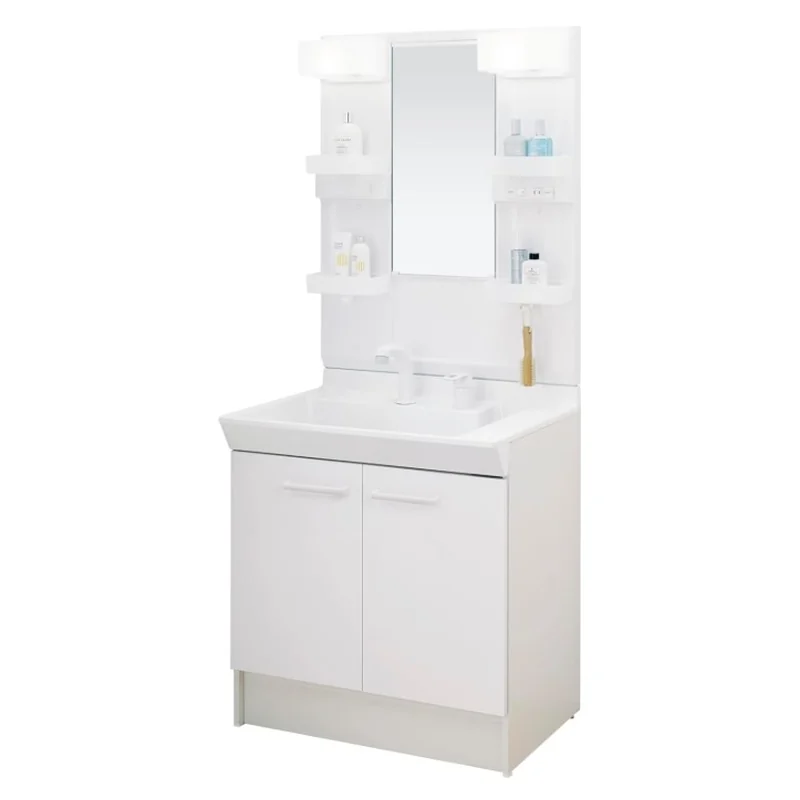
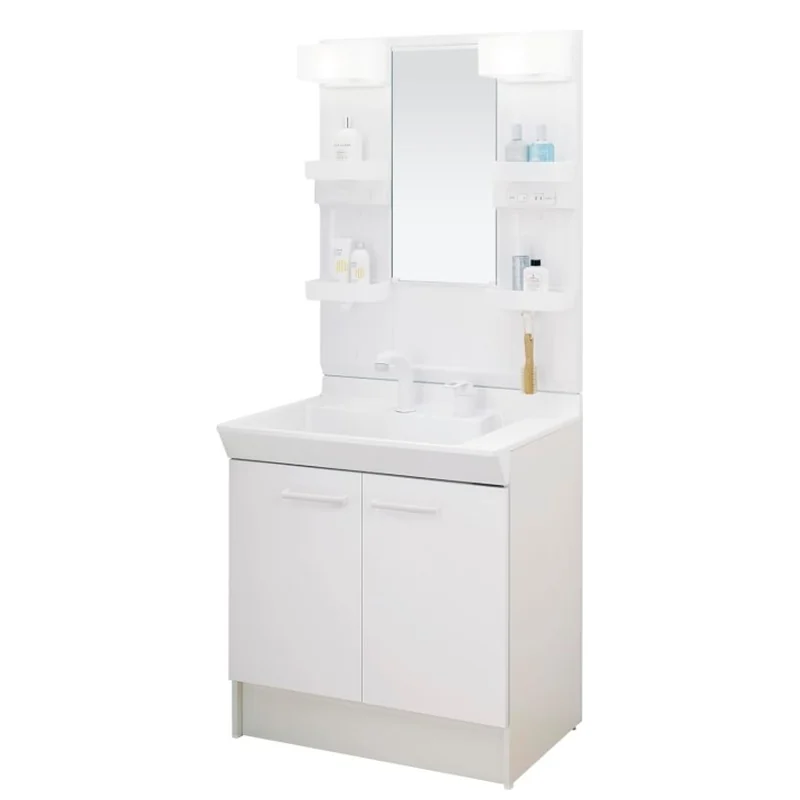
調整

diff --git a/index.html b/index.html
@@ -480,7 +480,7 @@
         <div class="p-price__body">
           <h3 class="p-price__name">水まわり4点パック</h3>
           <p class="p-price__desc">キッチン・お風呂・トイレ・洗面をまとめて。別々に頼むよりぐんとお得です。</p>
-          <p class="p-price__yen"><span class="lbl">工事費込み</span><span class="num">162.8</span><span class="unit">万円〜（税込）</span></p>
+          <p class="p-price__yen"><span class="lbl">工事費込み</span><span class="num">162<span class="dec">.8</span></span><span class="unit">万円〜（税込）</span></p>
           <p class="p-price__inc">本体＋標準工事＋既存撤去処分＋保証</p>
           <a class="p-price__link" href="./products/pack4/">プランを見る</a>
         </div>
@@ -497,7 +497,7 @@
         <div class="p-price__body">
           <h3 class="p-price__name">キッチン</h3>
           <p class="p-price__desc">クリナップ・LIXIL・TOTOなど主要メーカーを、標準工事費込みで。</p>
-          <p class="p-price__yen"><span class="lbl">工事費込み</span><span class="num">59.8</span><span class="unit">万円〜（税込）</span></p>
+          <p class="p-price__yen"><span class="lbl">工事費込み</span><span class="num">59<span class="dec">.8</span></span><span class="unit">万円〜（税込）</span></p>
           <p class="p-price__inc">本体＋標準工事＋既存撤去処分</p>
           <a class="p-price__link" href="./products/kitchen/">プランを見る</a>
         </div>
@@ -514,7 +514,7 @@
         <div class="p-price__body">
           <h3 class="p-price__name">お風呂（ユニットバス）</h3>
           <p class="p-price__desc">断熱浴槽で冬もあたたか。工期は3〜5日が目安です。</p>
-          <p class="p-price__yen"><span class="lbl">工事費込み</span><span class="num">84.8</span><span class="unit">万円〜（税込）</span></p>
+          <p class="p-price__yen"><span class="lbl">工事費込み</span><span class="num">84<span class="dec">.8</span></span><span class="unit">万円〜（税込）</span></p>
           <p class="p-price__inc">本体＋標準工事＋既存撤去処分</p>
           <a class="p-price__link" href="./products/bathroom/">プランを見る</a>
         </div>
@@ -531,7 +531,7 @@
         <div class="p-price__body">
           <h3 class="p-price__name">トイレ</h3>
           <p class="p-price__desc">最短半日で交換完了。お掃除がラクな最新モデルにも対応します。</p>
-          <p class="p-price__yen"><span class="lbl">工事費込み</span><span class="num">12.9</span><span class="unit">万円〜（税込）</span></p>
+          <p class="p-price__yen"><span class="lbl">工事費込み</span><span class="num">12<span class="dec">.9</span></span><span class="unit">万円〜（税込）</span></p>
           <p class="p-price__inc">本体＋標準工事＋既存撤去処分</p>
           <a class="p-price__link" href="./products/toilet/">プランを見る</a>
         </div>
@@ -548,7 +548,7 @@
         <div class="p-price__body">
           <h3 class="p-price__name">洗面化粧台</h3>
           <p class="p-price__desc">朝の身支度がしやすく。収納が増えて、掃除もラクになります。</p>
-          <p class="p-price__yen"><span class="lbl">工事費込み</span><span class="num">7.48</span><span class="unit">万円〜（税込）</span></p>
+          <p class="p-price__yen"><span class="lbl">工事費込み</span><span class="num">7<span class="dec">.48</span></span><span class="unit">万円〜（税込）</span></p>
           <p class="p-price__inc">本体＋標準工事＋既存撤去処分</p>
           <a class="p-price__link" href="./products/lavatory/">プランを見る</a>
         </div>
@@ -582,7 +582,7 @@
         <div class="p-price__body">
           <h3 class="p-price__name">外壁塗装</h3>
           <p class="p-price__desc">北陸の雪と雨に耐える塗料選びから。専門サイトもご用意しています。</p>
-          <p class="p-price__yen"><span class="above">足場代込み！</span><span class="lbl">100㎡あたり</span><span class="p-price__amount"><span class="num">49.8</span><span class="unit">万円〜（税込）</span></span></p>
+          <p class="p-price__yen"><span class="above">足場代込み！</span><span class="lbl">100㎡あたり</span><span class="p-price__amount"><span class="num">49<span class="dec">.8</span></span><span class="unit">万円〜（税込）</span></span></p>
           <p class="p-price__inc">足場＋高圧洗浄＋下塗り〜上塗り</p>
           <a class="p-price__link" href="./products/outer-wall/">プランを見る</a>
         </div>

diff --git a/assets/css/common.css b/assets/css/common.css
@@ -190,6 +190,9 @@ address{ font-style:normal; }
   color:var(--brand-dark); font-weight:800; font-size:17px; text-decoration:none;
   transition:background .18s, transform .18s;
 }
+/* ボタンの文字は必ず1行に。狭い画面では文字を少しだけ小さくします */
+.c-more{ white-space:nowrap; }
+@media (max-width:400px){ .c-more{ font-size:15.5px; padding:12px 18px; } }
 .c-more:hover{ background:var(--brand-tint); transform:translateY(-2px); }
 .c-more::after{ content:""; width:8px; height:8px; border-right:2.5px solid currentColor; border-bottom:2.5px solid currentColor; transform:rotate(-45deg); }
 
@@ -448,6 +451,15 @@ address{ font-style:normal; }
   padding:0 5px;
   background:linear-gradient(transparent 55%, #ffe95c 55%);
   -webkit-box-decoration-break:clone; box-decoration-break:clone;
+}
+/* 小数点以下は小さくして、整数部の上端にそろえます。
+   （例：162.8 の「.8」を小さく、162 の上のほうに寄せる）
+   小さくすると下がって見えるので、少しだけ上に持ち上げています。 */
+.p-price__yen .dec{
+  font-size:.72em; letter-spacing:0;
+  /* position:relative で持ち上げると、行の高さも黄色いマーカーもそのままです。
+     下端が黄色いマーカーに少しかかる高さにしています。 */
+  position:relative; top:-.30em; margin-left:-.05em;
 }
 .p-price__yen .unit{ font-size:15px; }
 /* 金額の上に置く一言（外壁塗装の「足場代込み！」など）。

diff --git a/assets/css/product.css b/assets/css/product.css
@@ -141,6 +141,12 @@
 /* 商品写真 */
 /* 商品写真。メーカー写真は白背景なので、枠も白にして地続きに見せます。
    高さを決め打ちにすると上下に余白の帯が出るため、写真の縦横比のまま置きます。 */
+/* スマホでは、商品名から写真までが遠く感じるので、
+   価格の枠と写真のあいだを少し詰めます（PCはこれまでどおり）。 */
+@media (max-width:767px){
+  .p-prd__head + .l-section{ padding-top:32px; }
+  .p-prd__photo{ margin-top:14px!important; padding:10px!important; }
+}
 .p-prd__photo{
   margin-top:20px; background:#fff; border:1px solid var(--border);
   border-radius:var(--radius); overflow:hidden; padding:14px;
@@ -651,7 +657,11 @@
   font-size:clamp(12.5px,3.4vw,17px); font-weight:900; letter-spacing:.02em;
   border-bottom:1px solid var(--border);
 }
-.p-cat__calcin{ padding:12px 12px 14px; text-align:center; flex:1; }
+/* 左右のカードで行数が違っても、金額の高さがそろうように中央ぞろえにします */
+.p-cat__calcin{
+  padding:12px 12px 14px; text-align:center; flex:1;
+  display:flex; flex-direction:column; justify-content:center;
+}
 .p-cat__calclead{
   margin:0; font-size:clamp(15px,4.4vw,22px); font-weight:900; color:var(--ink); line-height:1.3;
 }

diff --git a/wp/front-page.php b/wp/front-page.php
@@ -306,7 +306,7 @@ get_header();
         <div class="p-price__body">
           <h3 class="p-price__name">水まわり4点パック</h3>
           <p class="p-price__desc">キッチン・お風呂・トイレ・洗面をまとめて。別々に頼むよりぐんとお得です。</p>
-          <p class="p-price__yen"><span class="lbl">工事費込み</span><span class="num">162.8</span><span class="unit">万円〜（税込）</span></p>
+          <p class="p-price__yen"><span class="lbl">工事費込み</span><span class="num">162<span class="dec">.8</span></span><span class="unit">万円〜（税込）</span></p>
           <p class="p-price__inc">本体＋標準工事＋既存撤去処分＋保証</p>
           <a class="p-price__link" href="<?php echo esc_url( home_url( '/products/pack4/' ) ); ?>">プランを見る</a>
         </div>
@@ -323,7 +323,7 @@ get_header();
         <div class="p-price__body">
           <h3 class="p-price__name">キッチン</h3>
           <p class="p-price__desc">クリナップ・LIXIL・TOTOなど主要メーカーを、標準工事費込みで。</p>
-          <p class="p-price__yen"><span class="lbl">工事費込み</span><span class="num">59.8</span><span class="unit">万円〜（税込）</span></p>
+          <p class="p-price__yen"><span class="lbl">工事費込み</span><span class="num">59<span class="dec">.8</span></span><span class="unit">万円〜（税込）</span></p>
           <p class="p-price__inc">本体＋標準工事＋既存撤去処分</p>
           <a class="p-price__link" href="<?php echo esc_url( home_url( '/products/kitchen/' ) ); ?>">プランを見る</a>
         </div>
@@ -340,7 +340,7 @@ get_header();
         <div class="p-price__body">
           <h3 class="p-price__name">お風呂（ユニットバス）</h3>
           <p class="p-price__desc">断熱浴槽で冬もあたたか。工期は3〜5日が目安です。</p>
-          <p class="p-price__yen"><span class="lbl">工事費込み</span><span class="num">84.8</span><span class="unit">万円〜（税込）</span></p>
+          <p class="p-price__yen"><span class="lbl">工事費込み</span><span class="num">84<span class="dec">.8</span></span><span class="unit">万円〜（税込）</span></p>
           <p class="p-price__inc">本体＋標準工事＋既存撤去処分</p>
           <a class="p-price__link" href="<?php echo esc_url( home_url( '/products/bathroom/' ) ); ?>">プランを見る</a>
         </div>
@@ -357,7 +357,7 @@ get_header();
         <div class="p-price__body">
           <h3 class="p-price__name">トイレ</h3>
           <p class="p-price__desc">最短半日で交換完了。お掃除がラクな最新モデルにも対応します。</p>
-          <p class="p-price__yen"><span class="lbl">工事費込み</span><span class="num">12.9</span><span class="unit">万円〜（税込）</span></p>
+          <p class="p-price__yen"><span class="lbl">工事費込み</span><span class="num">12<span class="dec">.9</span></span><span class="unit">万円〜（税込）</span></p>
           <p class="p-price__inc">本体＋標準工事＋既存撤去処分</p>
           <a class="p-price__link" href="<?php echo esc_url( home_url( '/products/toilet/' ) ); ?>">プランを見る</a>
         </div>
@@ -374,7 +374,7 @@ get_header();
         <div class="p-price__body">
           <h3 class="p-price__name">洗面化粧台</h3>
           <p class="p-price__desc">朝の身支度がしやすく。収納が増えて、掃除もラクになります。</p>
-          <p class="p-price__yen"><span class="lbl">工事費込み</span><span class="num">7.48</span><span class="unit">万円〜（税込）</span></p>
+          <p class="p-price__yen"><span class="lbl">工事費込み</span><span class="num">7<span class="dec">.48</span></span><span class="unit">万円〜（税込）</span></p>
           <p class="p-price__inc">本体＋標準工事＋既存撤去処分</p>
           <a class="p-price__link" href="<?php echo esc_url( home_url( '/products/lavatory/' ) ); ?>">プランを見る</a>
         </div>
@@ -408,7 +408,7 @@ get_header();
         <div class="p-price__body">
           <h3 class="p-price__name">外壁塗装</h3>
           <p class="p-price__desc">北陸の雪と雨に耐える塗料選びから。専門サイトもご用意しています。</p>
-          <p class="p-price__yen"><span class="above">足場代込み！</span><span class="lbl">100㎡あたり</span><span class="p-price__amount"><span class="num">49.8</span><span class="unit">万円〜（税込）</span></span></p>
+          <p class="p-price__yen"><span class="above">足場代込み！</span><span class="lbl">100㎡あたり</span><span class="p-price__amount"><span class="num">49<span class="dec">.8</span></span><span class="unit">万円〜（税込）</span></span></p>
           <p class="p-price__inc">足場＋高圧洗浄＋下塗り〜上塗り</p>
           <a class="p-price__link" href="<?php echo esc_url( home_url( '/products/outer-wall/' ) ); ?>">プランを見る</a>
         </div>

diff --git a/wp/ymkrf-setup.php b/wp/ymkrf-setup.php
@@ -14,7 +14,7 @@
 
 if ( ! defined( 'ABSPATH' ) ) exit;
 
-define( 'YMKRF_SETUP_VER', '62' );
+define( 'YMKRF_SETUP_VER', '64' );
 
 /* キッチンの「ヤマキシ標準工事内容」。
    ホームページの一覧表（7項目）と、番号入りの図（8項目）の
@@ -3792,7 +3792,7 @@ add_action( 'init', function () {
 		'ofuroa'   => array( 'ofuroa-main.jpg',  'Panasonic オフローラ 1坪サイズ（ユニットバス）' ),
 		'lidea-m'  => array( 'lidea-main.jpg',   'LIXIL リデア Mタイプ 1坪サイズ（ユニットバス）' ),
 		/* 洗面化粧台V1は、いただいた新しい写真（中央ぞろえ）に差し替えました */
-		'v1'       => array( 'v1-main.jpg',      'LIXIL V1 洗面化粧台 間口75cm', 'v6' ),
+		'v1'       => array( 'v1-main.jpg',      'LIXIL V1 洗面化粧台 間口75cm', 'v8' ),
 	);
 	foreach ( $retrim as $slug => $info ) {
 		$tp = get_page_by_path( $slug, OBJECT, 'ymkrf_product' );

diff --git a/wp/taxonomy-ymkrf_product_cat.php b/wp/taxonomy-ymkrf_product_cat.php
@@ -495,7 +495,8 @@ if ( ! empty( $pn['items'] ) ) :
         <div class="p-cat__calccard p-cat__calccard--work">
           <p class="p-cat__calchead p-cat__calchead--work"><?php echo esc_html( $pn['label'] ); ?></p>
           <div class="p-cat__calcin">
-            <p class="p-cat__calclead p-cat__calclead--work">追加料金なし！</p>
+            <?php /* ここにあった「追加料金なし！」は、お家の形状によって
+                     追加が出る場合があるため、削除しました。 */ ?>
             <p class="p-cat__calcprice">
               <span class="num"><?php echo esc_html( rtrim( rtrim( number_format( $pn['price'] / 10000, 1 ), '0' ), '.' ) ); ?></span><span class="man">万円</span>
             </p>

diff --git a/wp/functions-product.php b/wp/functions-product.php
@@ -1282,9 +1282,9 @@ function ymkrf_works_section( $slug, $catname, $number = 3 ) {
 				<?php while ( $q->have_posts() ) : $q->the_post(); ymkrf_works_card(); endwhile; ?>
 			</div>
 			<?php if ( $more ) : ?>
-				<a class="c-more" href="<?php echo esc_url( $more ); ?>">
-					<?php echo esc_html( $catname ); ?>の施工事例をもっと見る
-				</a>
+				<?php /* すぐ上の見出しに分類名が出ているので、ボタンは短くしています。
+				         「洗面化粧台の…」のように長い分類だと2行になってしまうためです。 */ ?>
+				<a class="c-more" href="<?php echo esc_url( $more ); ?>">施工事例をもっと見る</a>
 			<?php endif; ?>
 		</div>
 	</section>
